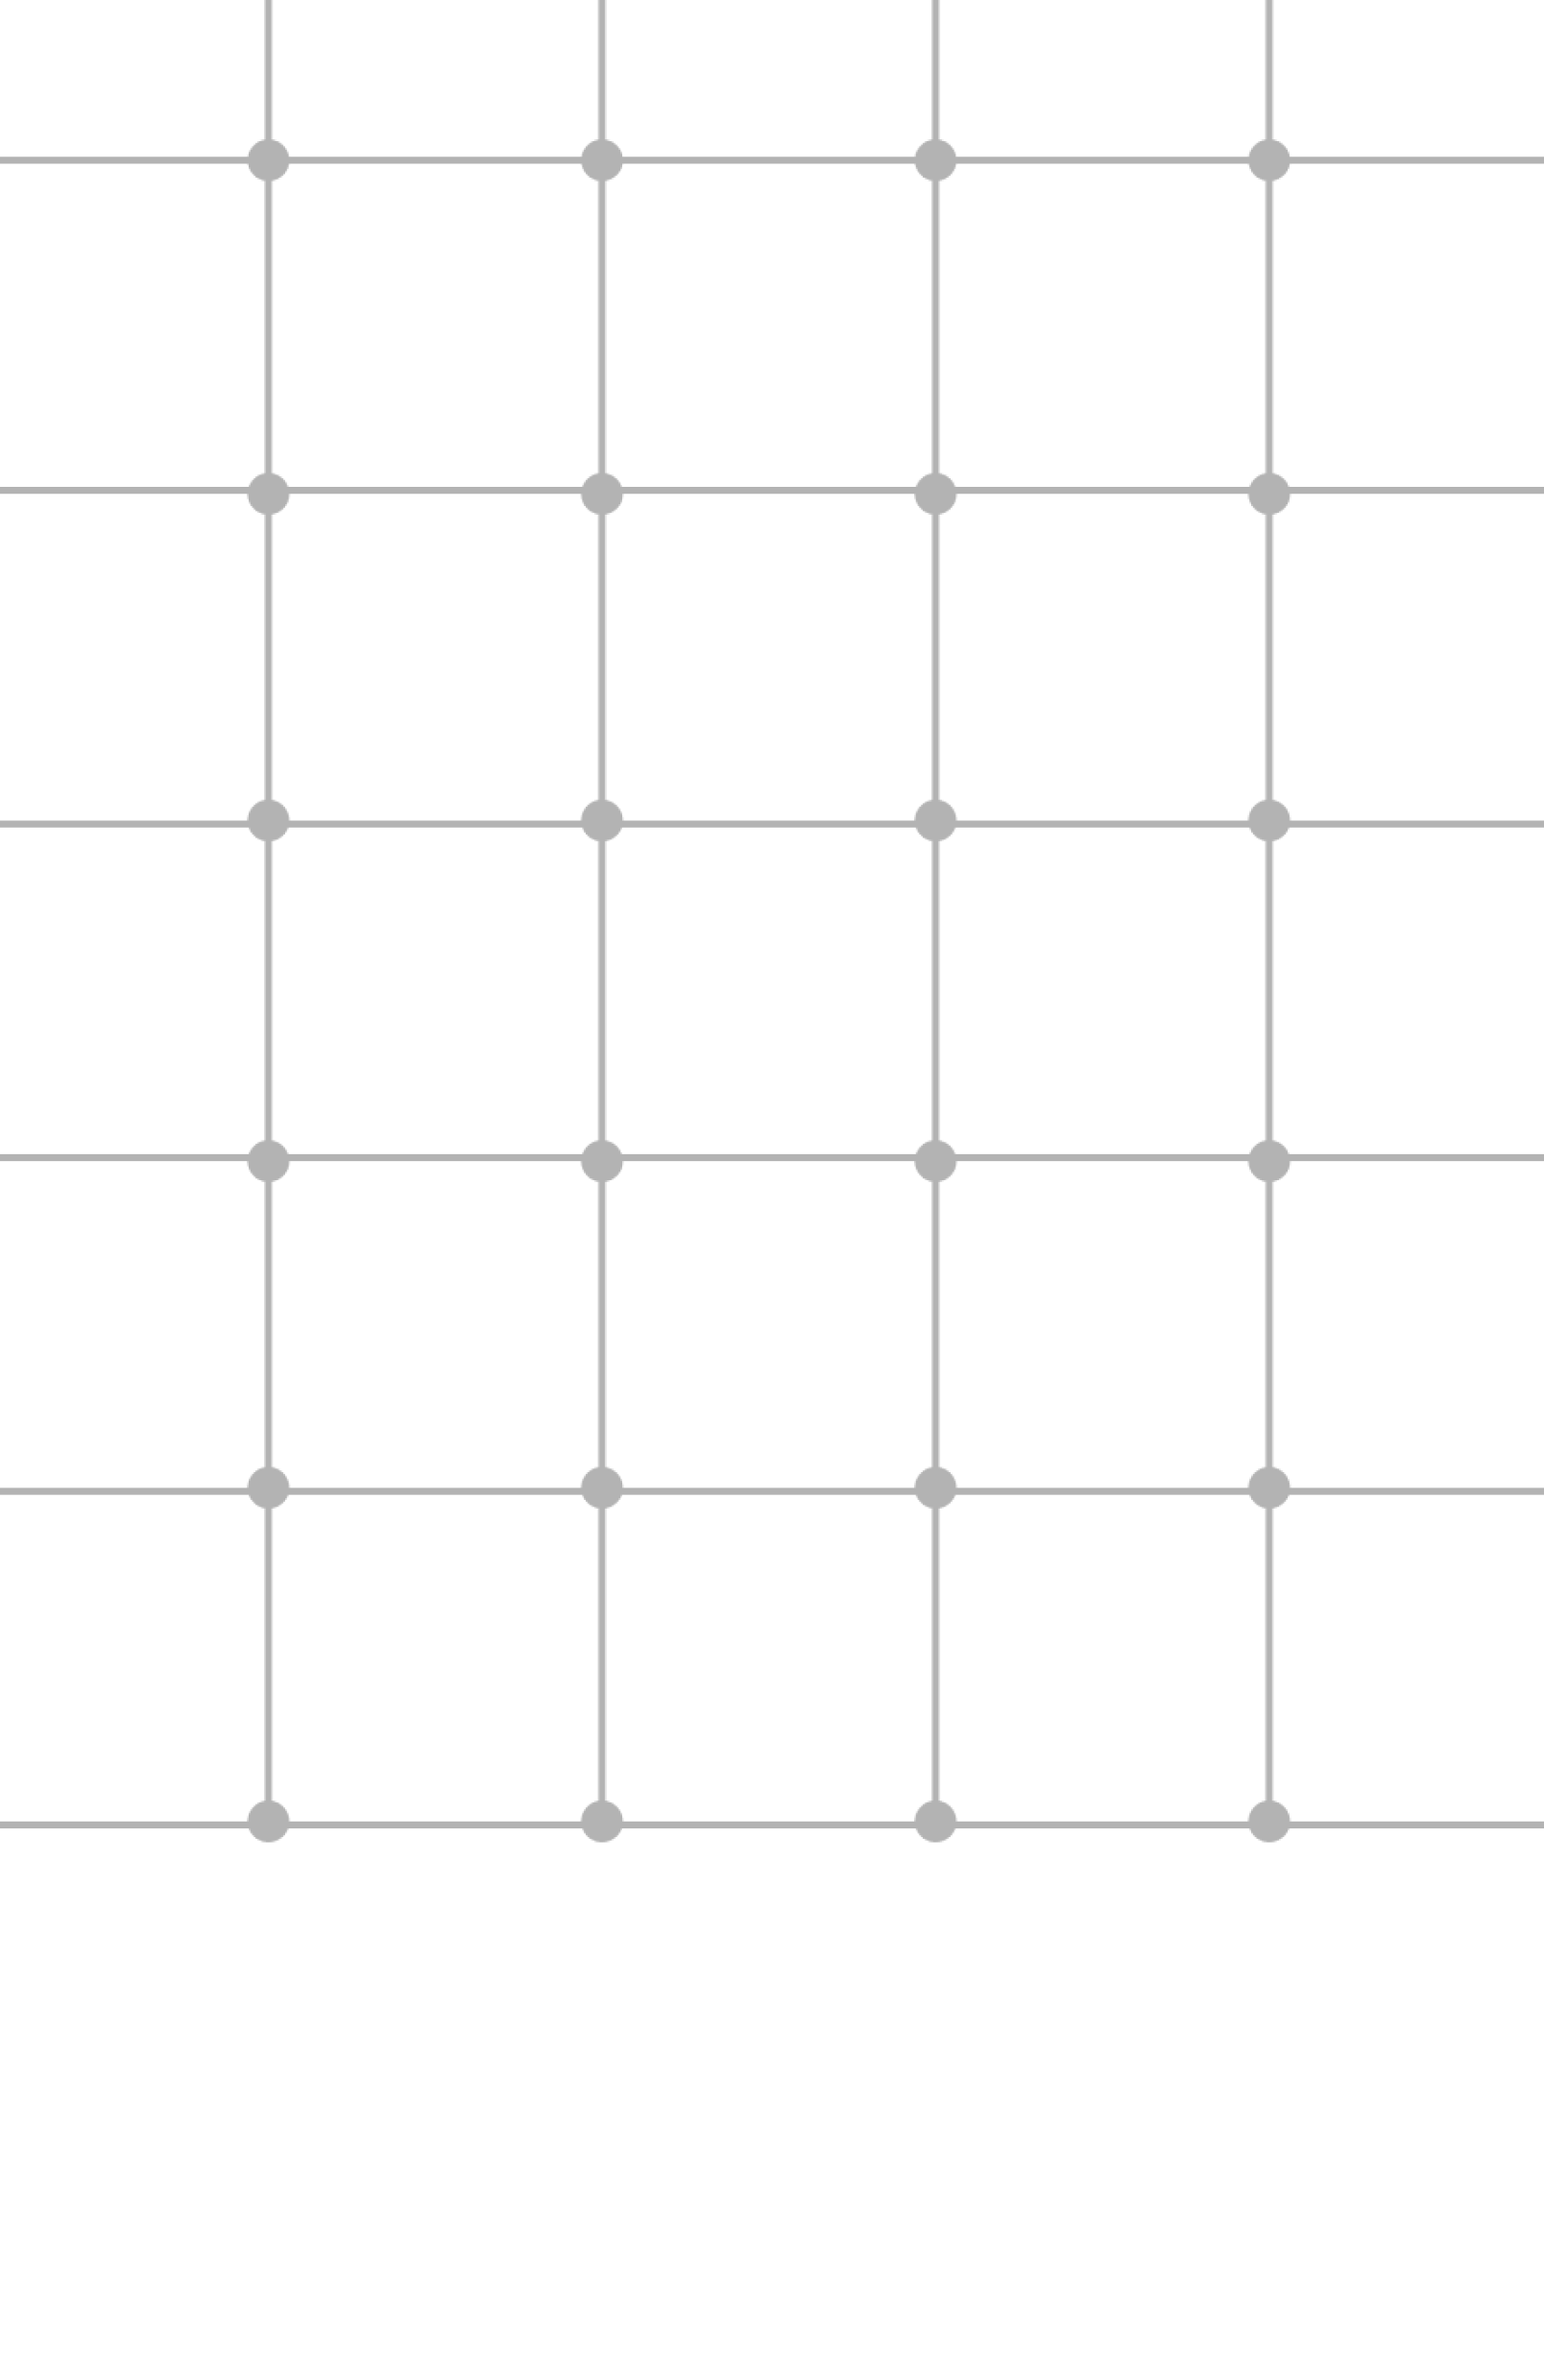
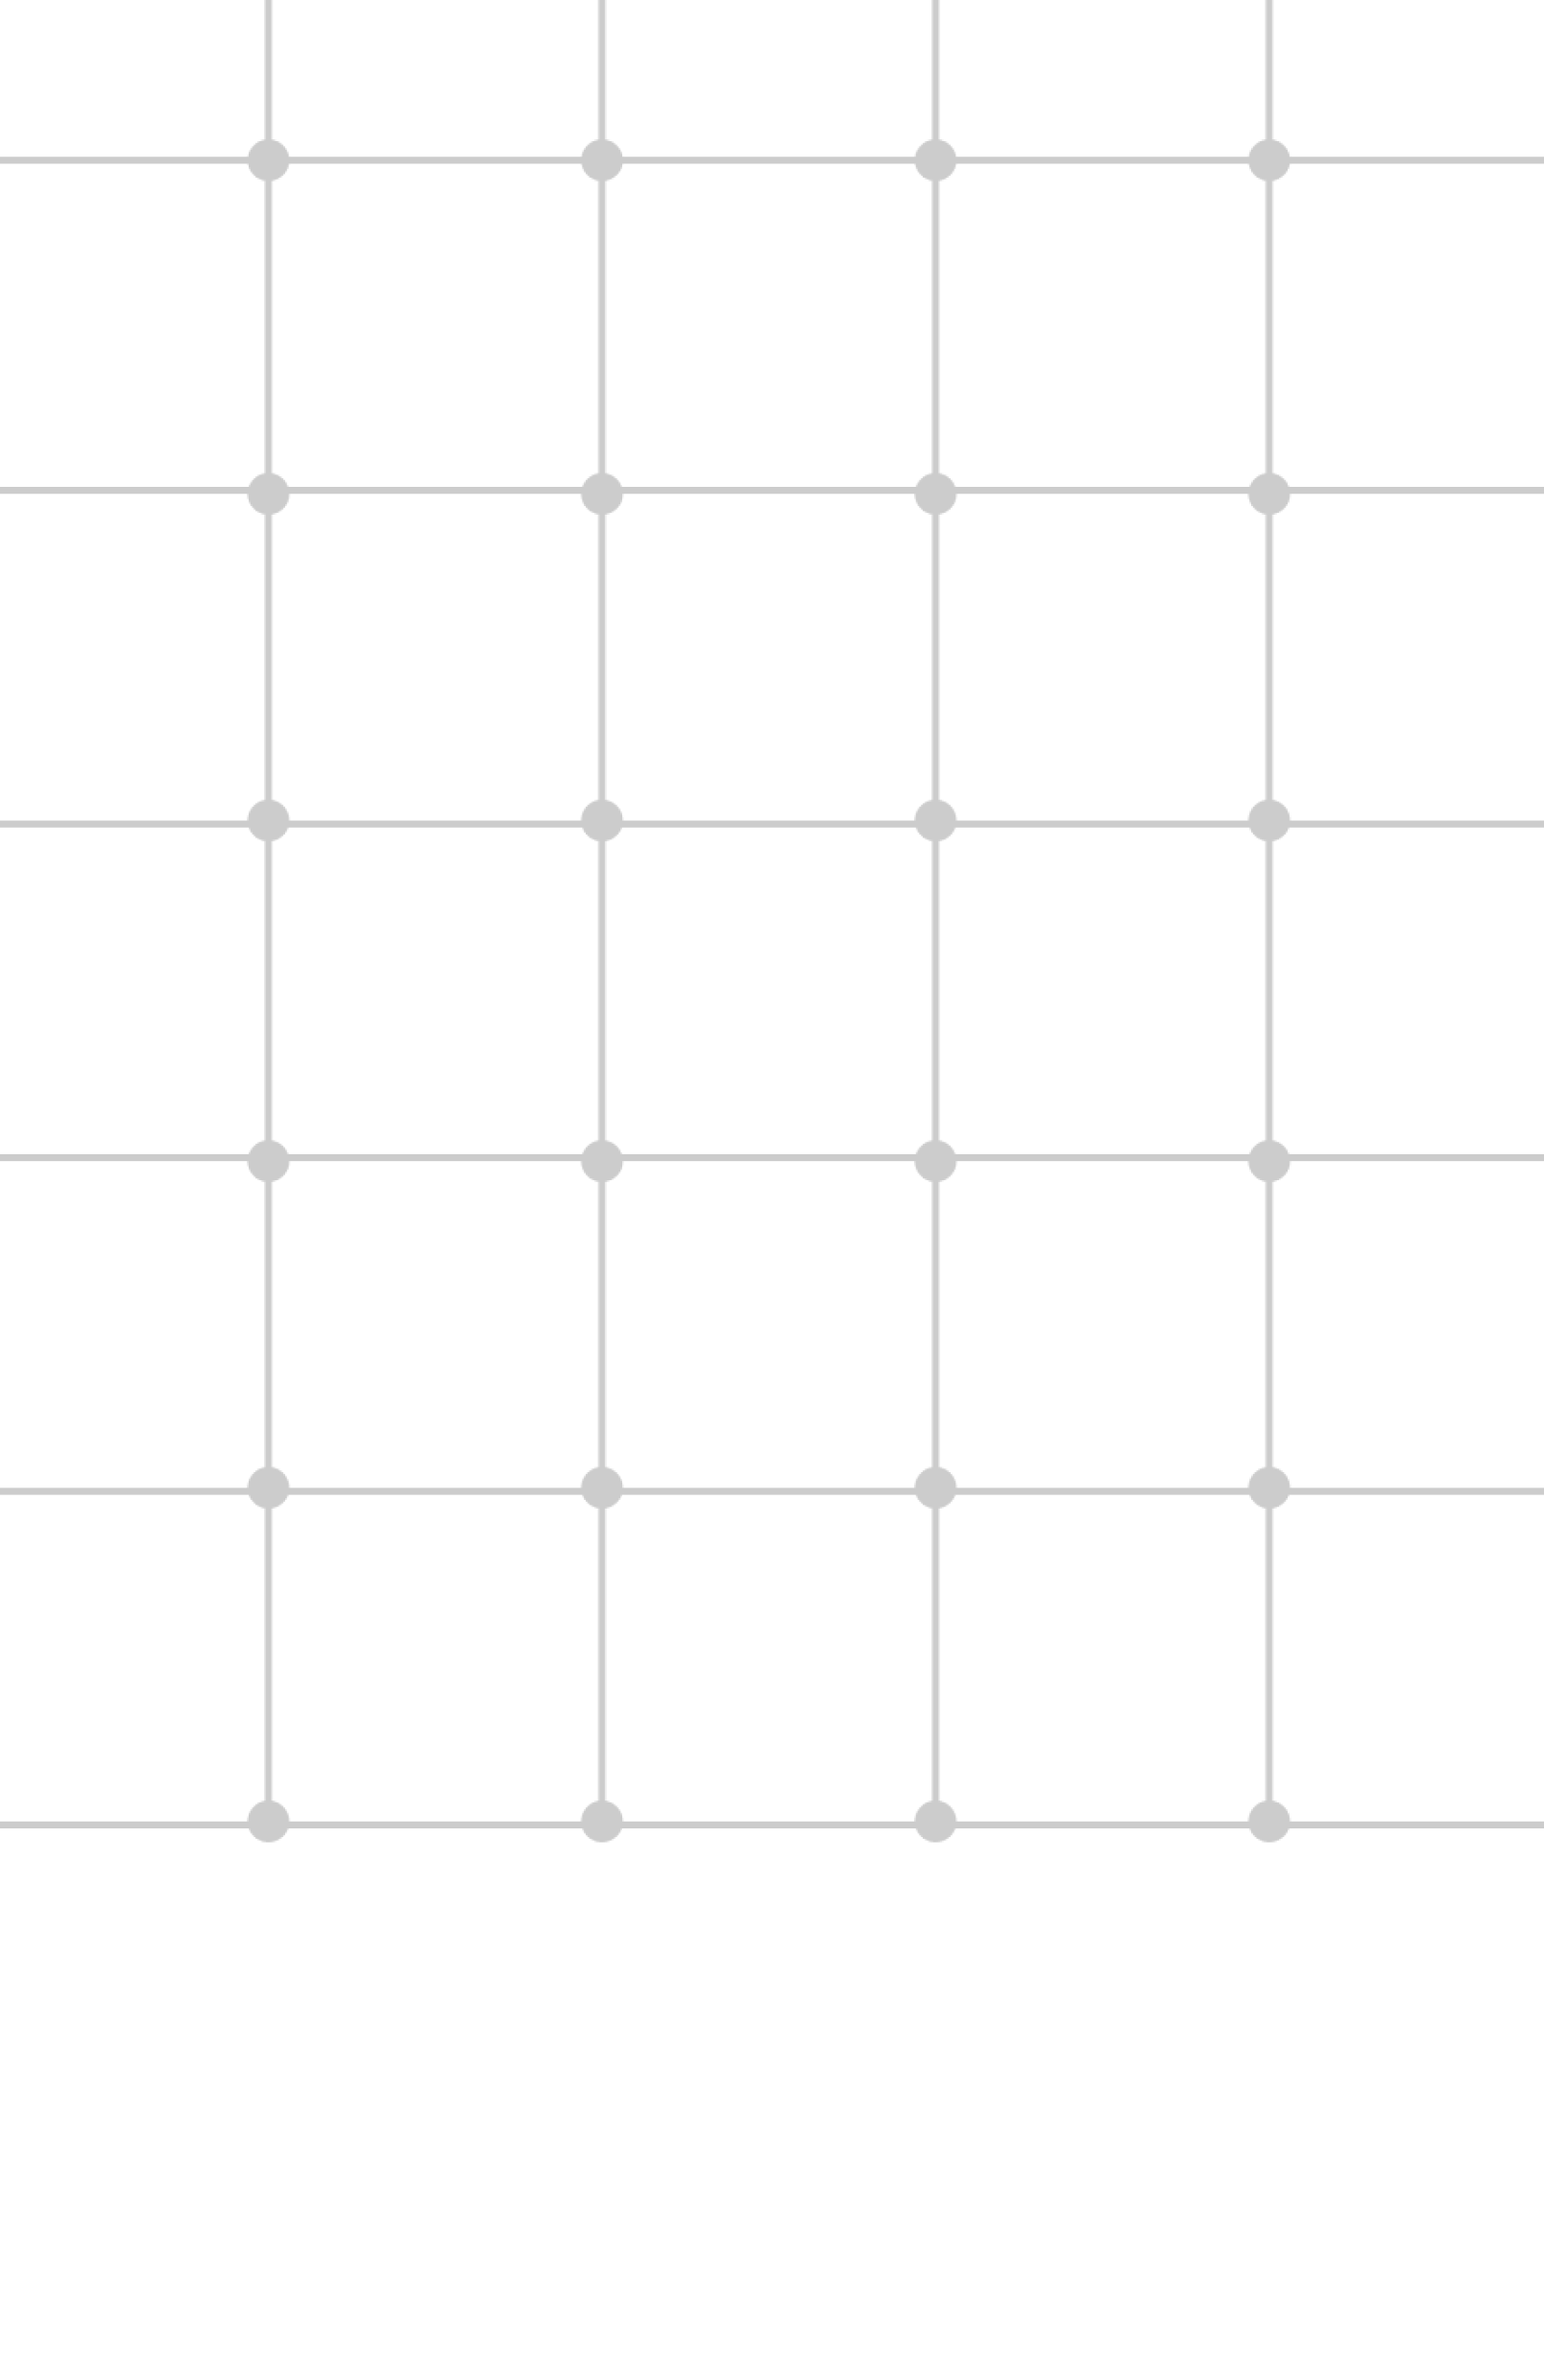
Hero height

diff --git a/frontend/components/Hero.tsx b/frontend/components/Hero.tsx
@@ -3,7 +3,7 @@ import Image from "next/image";
 
 const Hero = () => {
   return (
-    <section className="w-full top-16 pt-[66px] flex items-center justify-center relative min-h-dvh h-fit flex-col gap-10 bg-[url('/images/strokes.png')] dark:bg-[url('/images/strokes-dark.png')] bg-cover bg-bottom">
+    <section className="w-full top-16 pt-[66px] flex items-center justify-center relative min-h-[70dvh] h-fit flex-col gap-10 bg-[url('/images/strokes.png')] dark:bg-[url('/images/strokes-dark.png')] bg-cover bg-bottom">
       <div className="w-full leading-[52px] text-[#fff] flex flex-col justify-center [-2%] px-5">
         <div className="flex flex-col justify-center text-text text-[136px]">
           <h1 className="font-caacupe">
